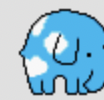
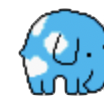
a

diff --git a/Elephant.java b/Elephant.java
@@ -8,30 +8,59 @@ import greenfoot.*;  // (World, Actor, GreenfootImage, Greenfoot and MouseInfo)
  */
 public class Elephant extends Actor
 {
+    SimpleTimer animationTimer = new SimpleTimer();
     private int speed;
     GreenfootSound sound = new GreenfootSound("elephantcub.mp3");
-    GreenfootImage idle[] = new GreenfootImage[8];
+    GreenfootImage[] idleRight = new GreenfootImage[8];
+    GreenfootImage[] idleLeft = new GreenfootImage[8];
+    
+    
+    //direction the elephant is facing
+    String facing = "right";
+    
     public Elephant(int speed){
         this.speed = speed;
-        for(int i = 0; i < idle.length; i++){
-            idle[i] = new GreenfootImage("images/elephant_idle/idle" + i + ".png");
+        for(int i = 0; i < idleRight.length; i++){
+            idleRight[i] = new GreenfootImage("images/elephant_idle/idle" + i + ".png");
+            idleRight[i].scale(100, 100);
         }
-        setImage(idle[0]);
+        //Initial elephant image
+        
+        for(int i =0; i< idleLeft.length; i++){
+            idleLeft[i] = new GreenfootImage("images/elephant_idle/idle" + i + ".png");
+            idleLeft[i].mirrorHorizontally();
+            idleLeft[i].scale(100, 100);
+        }
+        setImage(idleRight[0]);
+        
+        animationTimer.mark();
         
     }
     //animate the elephant
     int imageIndex = 0;
     public void animate(){
-        setImage(idle[imageIndex]);
-        imageIndex = (imageIndex + 1) % idle.length;
+        if(animationTimer.millisElapsed() < 100){
+            return;
+        }
+        animationTimer.mark();
+        if(facing.equals("right")){
+            setImage(idleRight[imageIndex]);
+            imageIndex = (imageIndex + 1) % idleRight.length;
+        }
+        else{
+            setImage(idleLeft[imageIndex]);
+            imageIndex = (imageIndex+1) % idleLeft.length;
+        }
     }
     public void act()
     {
         if(Greenfoot.isKeyDown("left")){
             move(-speed);
+            facing = "left";
         }
         else if(Greenfoot.isKeyDown("right")){
             move(speed);
+            facing = "right";
         }
         
         // eats the apple and spawns a new apple

diff --git a/SimpleTimer.java b/SimpleTimer.java
@@ -1,0 +1,61 @@
+/**
+ * A simple timer class that allows you to keep track of how much time
+ * has passed between events.
+ * 
+ * You use this class by creating a timer as a member field in your actor (or whatever):
+ * <pre>
+ * 
+ * private SimpleTimer timer = new SimpleTimer();
+ * </pre>
+ * 
+ * Then when you want to start the timer (for example, when a shot is fired), you call the mark() method:
+ * 
+ * <pre>
+ * 
+ * timer.mark();
+ * </pre>
+ * 
+ * Thereafter, you can use the millisElapsed() method to find out how long it's been since mark()
+ * was called (in milliseconds, i.e. thousandths of a second).  So if you want to only allow the player to fire a shot every second, you
+ * could write:
+ * 
+ * <pre>
+ * 
+ * if (timer.millisElapsed() > 1000 && Greenfoot.isKeyDown("space"))
+ * {
+ *     // Code here for firing a new shot
+ *     timer.mark(); // Reset the timer
+ * }
+ * </pre>
+ * 
+ * @author Neil Brown
+ * @version 1.0
+ */
+public class SimpleTimer
+{
+    private long lastMark = System.currentTimeMillis();
+    
+    /**
+     * Marks the current time.  You can then in future call
+     * millisElapsed() to find out the elapsed milliseconds
+     * since this mark() call was made.
+     * 
+     * A second mark() call will reset the mark, and millisElapsed()
+     * will start increasing from zero again.
+     */
+    public void mark()
+    {
+        lastMark = System.currentTimeMillis();
+    }
+    
+    /**
+     * Returns the amount of milliseconds that have elapsed since mark()
+     * was last called.  This timer runs irrespective of Greenfoot's
+     * act() cycle, so if you call it many times during the same Greenfoot frame,
+     * you may well get different answers.
+     */
+    public int millisElapsed()
+    {
+        return (int) (System.currentTimeMillis() - lastMark);
+    }
+}
